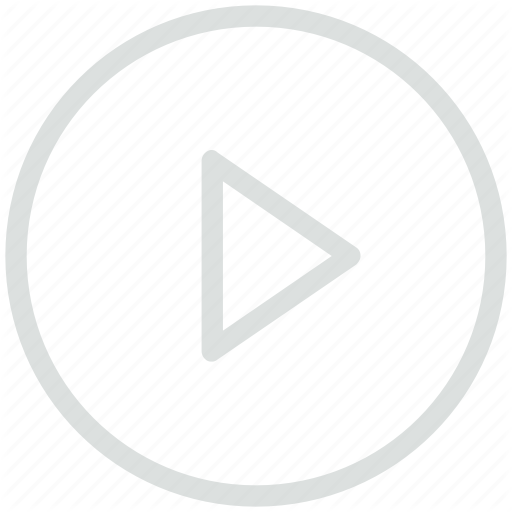
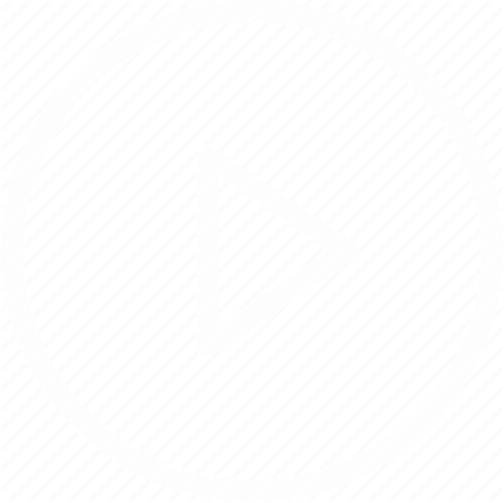
no message

Changed region(s): [[0.0, 0.0, 1.0, 1.0], [0.3869, 0.2982, 0.7143, 0.7157]]

diff --git a/BunkerBuster/src/js/index.js b/BunkerBuster/src/js/index.js
@@ -117,6 +117,9 @@ var berserk_cube_texture;
 var enemy_health_bar = [];
 var enemy_health_life = [];
 
+var speed_up =false;                    //init perks values
+var berserk_up = false;
+
 
 /**
  * var to pause/play game
@@ -138,7 +141,7 @@ function init_variables(){
   cannon_shell = new THREE.Mesh(new THREE.SphereGeometry(2, 8, 6), new THREE.MeshLambertMaterial({color: 0xff0000}));
   health_bar = document.getElementById("health");
   speed_bar = document.getElementById("speed_pb_id");
-  berserk_bar = document.getElementById("berserk_pb_bar");
+  berserk_bar = document.getElementById("berserk_pb_id");
 
   // turret_life_bar = document.getElementById("turret-hp-id");
   health_cube_texture = new THREE.TextureLoader().load( 'img/health.png');
@@ -704,6 +707,11 @@ function progress_left(progress_bar_left) {
 };
 
 function check_cubes() {
+  var berserk_downloadTimer;
+  var speed_downloadTimer;
+
+
+
 
   for (var i = 0; i < nCubes; i++) {
     if (healthcubes[i].visible === true && tank.position.x >= healthcubes[i].position.x - 10 && tank.position.x <= healthcubes[i].position.x + 10 && tank.position.z >= healthcubes[i].position.z - 10 && tank.position.z <= healthcubes[i].position.z + 10) {
@@ -714,34 +722,57 @@ function check_cubes() {
     }
 
     if (speedcubes[i].visible === true && tank.position.x >= speedcubes[i].position.x - 10 && tank.position.x <= speedcubes[i].position.x + 10 && tank.position.z >= speedcubes[i].position.z - 10 && tank.position.z <= speedcubes[i].position.z + 10) {
-      speedcubes[i].visible = false;
-      console.log('SPEED UP');
-      moveDistance = moveDistance * 2;
-      speed_bar.value = 100;
-      progress_left(speed_bar);
-      setTimeout(function () {
-        if(timeleft <= 0)
-          moveDistance = moveDistance / 2;
-      }, 1000);
 
-      console.log('SPEED UP IS OVER');
+      if(speed_up ===true){
+        speed_bar.value = 100;
+        speedcubes[i].visible = false;
+      }
+
+      else if(speed_up ===false) {
+       speed_up = true;
+       speedcubes[i].visible = false;
+
+       moveDistance = moveDistance * 2;
+       console.log('SPEED UP');
+       speed_bar.value = 100;
+
+       speed_downloadTimer = setInterval(function () {
+         speed_bar.value -= 10;
+         if (speed_bar.value <= 0) {
+           clearInterval(speed_downloadTimer);
+           moveDistance = moveDistance / 2;
+           console.log('SPEED UP IS OVER');
+           speed_up = false;
+
+         }
+       }, 1000);
+     }
+
     }
 
     if (berserkcubes[i].visible === true && tank.position.x >= berserkcubes[i].position.x - 10 && tank.position.x <= berserkcubes[i].position.x + 10 && tank.position.z >= berserkcubes[i].position.z - 10 && tank.position.z <= berserkcubes[i].position.z + 10) {
-      berserkcubes[i].visible = false;
-      console.log('BERSERK UP');
-      rate = rate / 2;
-      p1fireRate = rate;
-      berserk_bar.value=100;
-      progress_left(berserk_bar);
-      setTimeout(function () {
-        if(timeleft <= 0)
-          rate = rate * 2;
-          p1fireRate = rate;
-          berserk_bar.value += 20;
-      }, 10000);
-      console.log('BERSERK UP IS OVER');
-      berserk_bar.value -=20;
+      if (berserk_up === true) {
+        berserk_bar.value = 100;
+        berserkcubes[i].visible = false;
+      }
+      else if (berserk_up === false) {
+        berserk_up = true;
+        berserkcubes[i].visible = false;
+        rate = rate / 2;
+        console.log('BERSERK UP');
+        berserk_bar.value = 100;
+        p1fireRate = rate;
+
+        berserk_downloadTimer = setInterval(function () {
+          berserk_bar.value -=10;
+          if(berserk_bar.value <= 0){
+            clearInterval(berserk_downloadTimer);
+            rate = rate * 2;
+            console.log('BERSERK UP IS OVER');
+            berserk_up = false;
+          }
+        },1000);
+      }
     }
   }
 }
@@ -756,16 +787,20 @@ function update_cannons(){
  */
 
 function render(){
+
+  var rot_x = 0.018;
+  var rot_y = 0.020;
+
   backgroundMusic.play();
   sound_war.play();
   requestAnimationFrame(update);
   for(var i = 0; i< nCubes;i++){
-    healthcubes[i].rotation.x += 0.008;
-    healthcubes[i].rotation.y += 0.012;
-    speedcubes[i].rotation.x += 0.008;
-    speedcubes[i].rotation.y += 0.012;
-    berserkcubes[i].rotation.x += 0.008;
-    berserkcubes[i].rotation.y += 0.012;
+    healthcubes[i].rotation.x += rot_x;
+    healthcubes[i].rotation.y += rot_y;
+    speedcubes[i].rotation.x += rot_x;
+    speedcubes[i].rotation.y += rot_y;
+    berserkcubes[i].rotation.x += rot_x;
+    berserkcubes[i].rotation.y += rot_y;
   }
 
   renderer.render(scene, camera);//draw
@@ -816,13 +851,14 @@ function play_pause_game() {
 }
 
 function changeImage(){
-  if (document.getElementById("play_pause").src === "img/ResumeBTN.png"){
-    console.log('sono qui');
-    document.getElementById("play_pause").src = "img/PauseBTN.png";
+  var abs_path = document.getElementById("play_pause").src;
+  var path = abs_path.substring(abs_path.lastIndexOf("/"),abs_path.length);
+  console.log(path);
 
+  if (path === '/ResumeBTN.png'){
+    document.getElementById("play_pause").src = 'img/PauseBTN.png';
   }
   else {
-    document.getElementById("play_pause").src = "img/ResumeBTN.png";
+    document.getElementById("play_pause").src = 'img/ResumeBTN.png';
   }
-
 }

diff --git a/BunkerBuster/src/index.html b/BunkerBuster/src/index.html
@@ -92,7 +92,7 @@
       </div>
 
       <div>
-        <img id="play_pause" src="img/ResumeBTN.png" style="width:100px;height:100px;" onclick="play_pause_game();changeImage()" >
+        <img id="play_pause" src="img/PauseBTN.png" style="width:100px;height:100px;" onclick="play_pause_game();changeImage()" >
       </div>
       <div>
         <button id="restart_game" type="button" onclick="restart_game()" ></button>
